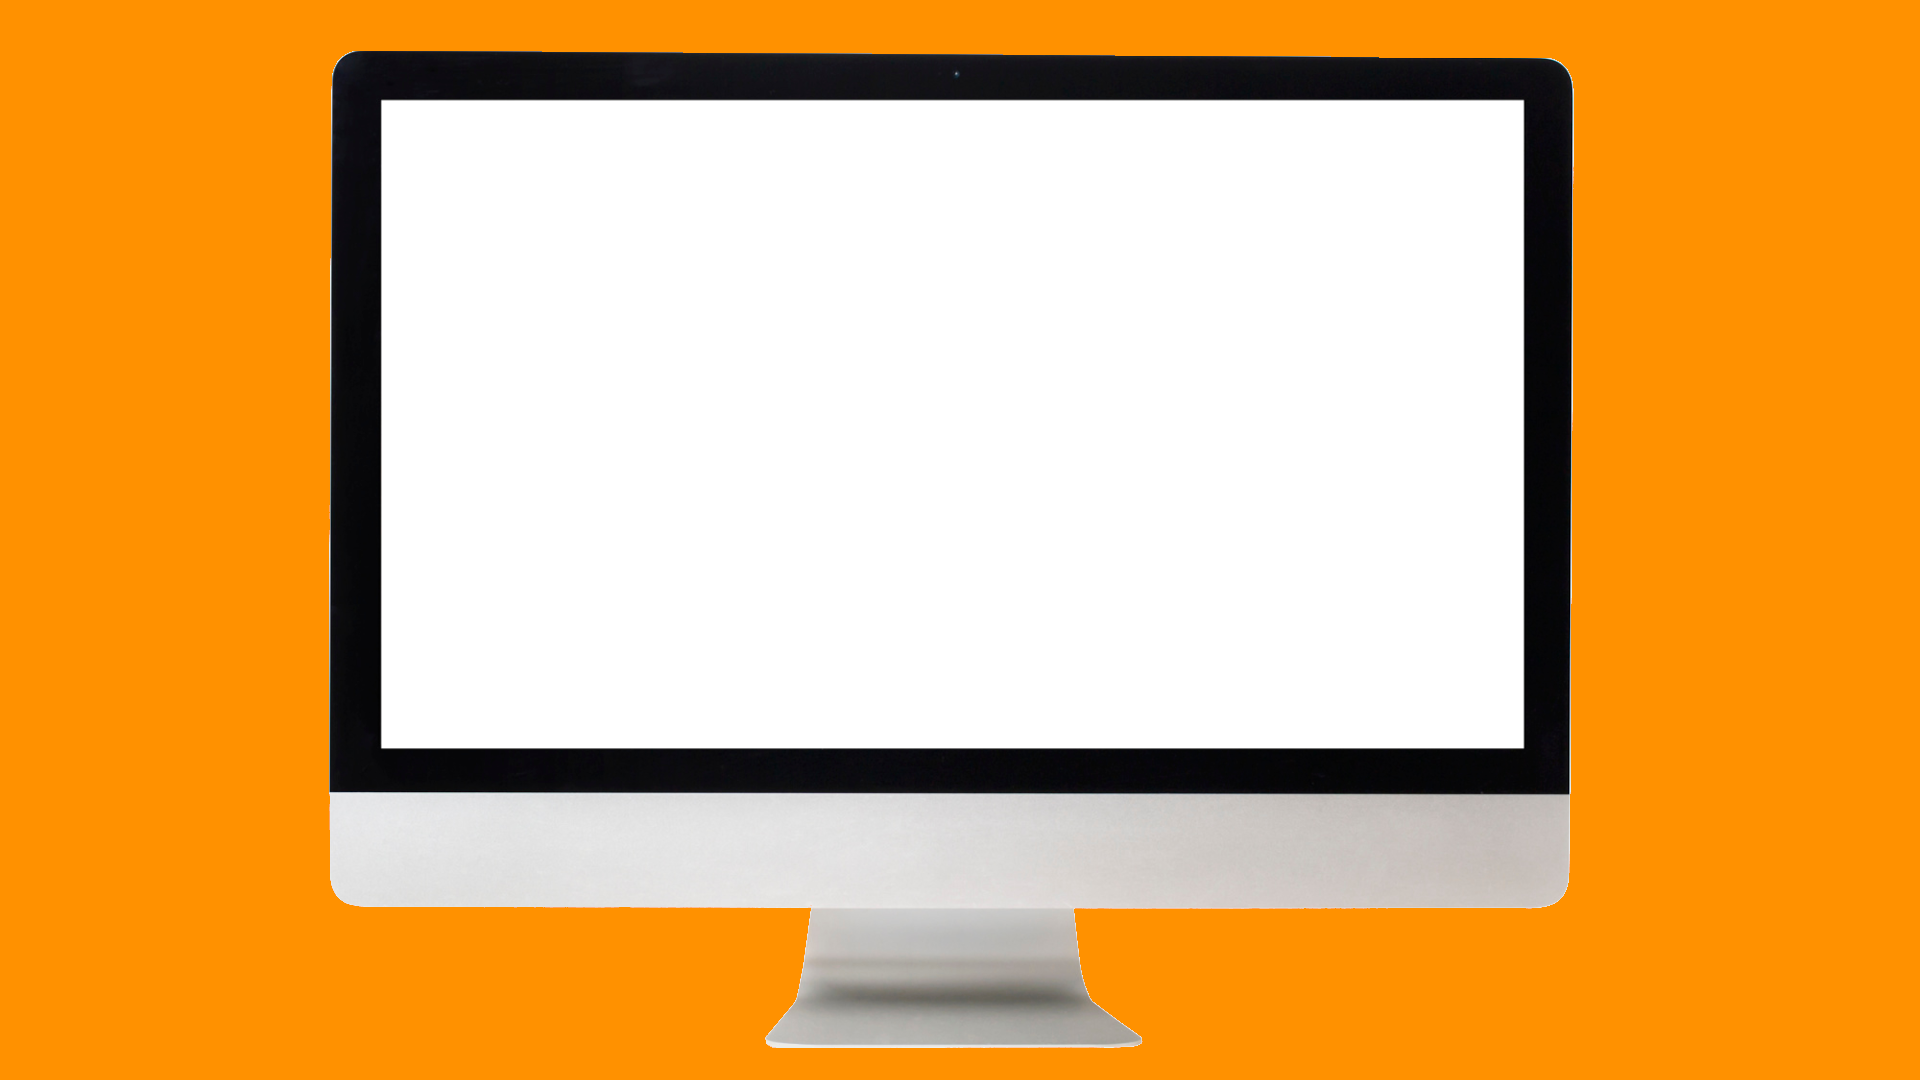
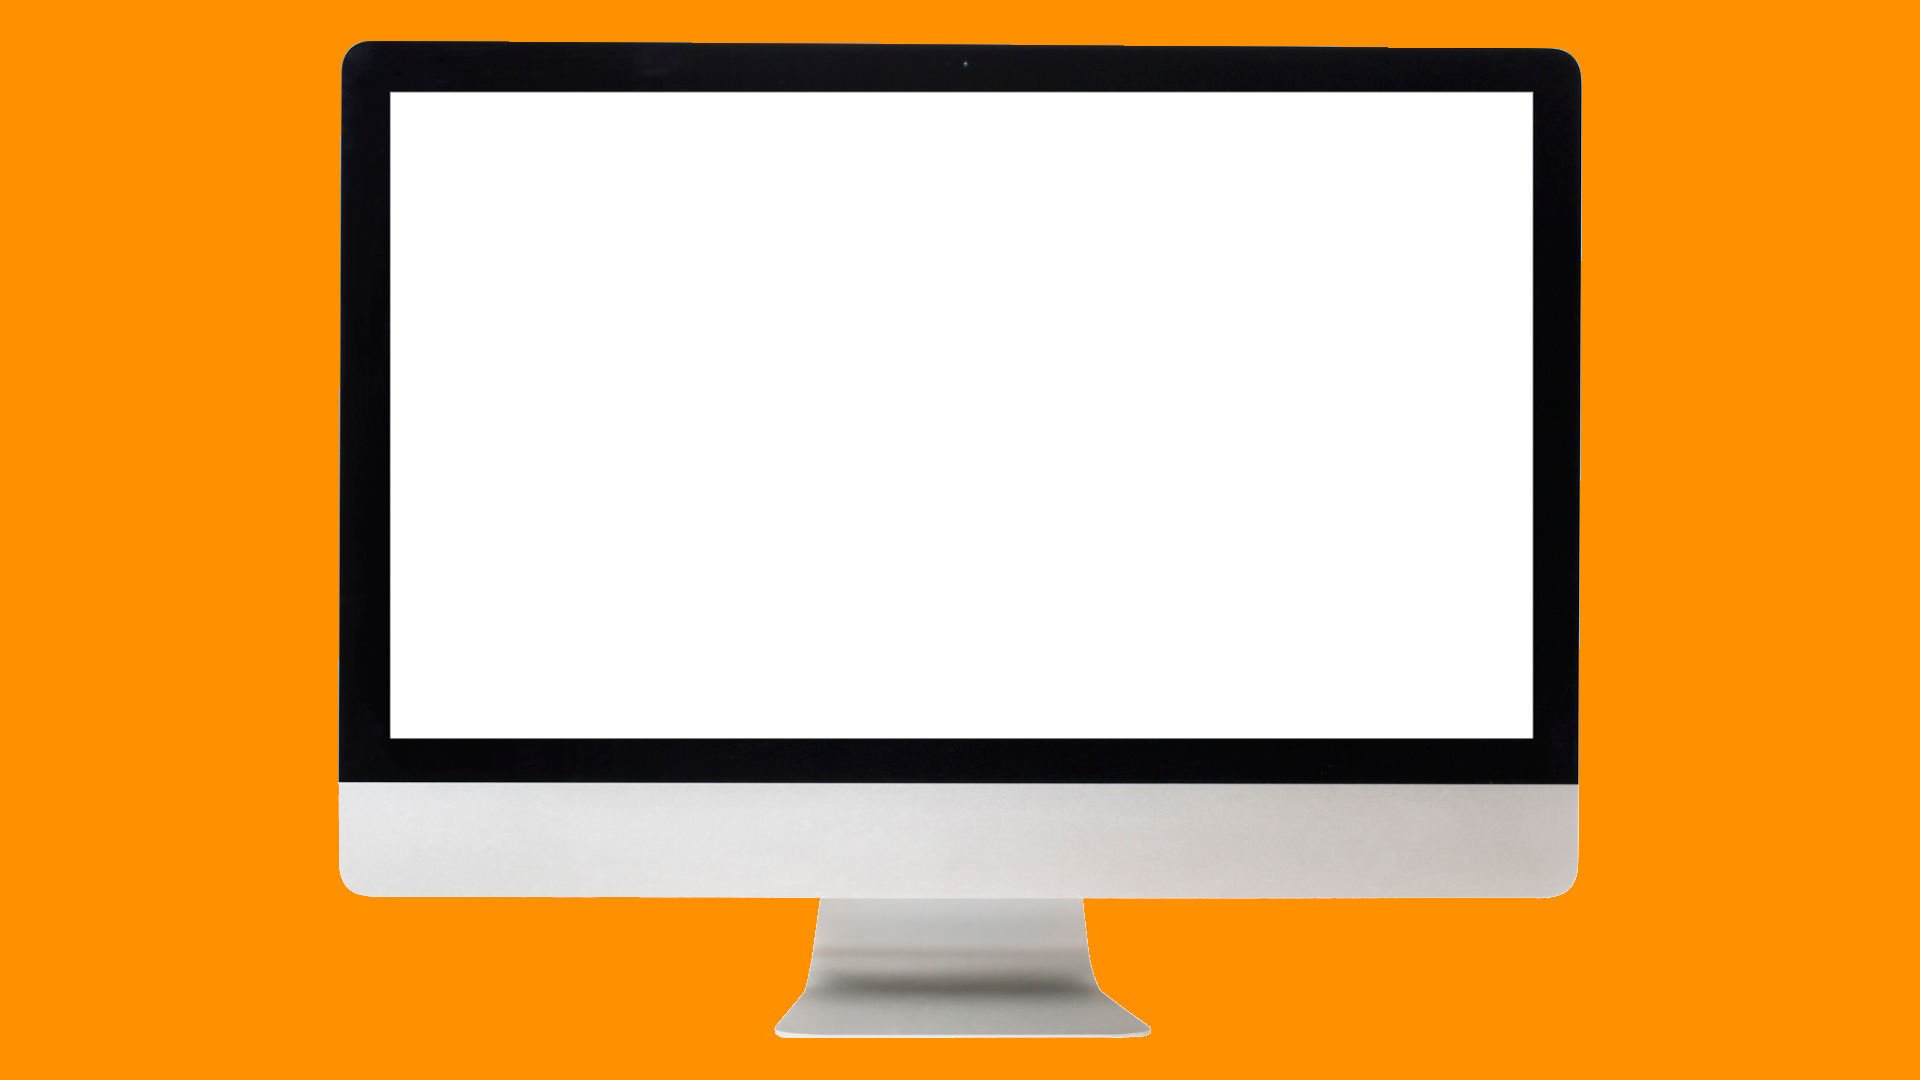
:sparkles: improve zoom in computer transition

Changed region(s): [[0.1562, 0.0306, 0.8438, 0.9778]]

diff --git a/src/scenes/ZoomInComputerScence.tsx b/src/scenes/ZoomInComputerScence.tsx
@@ -7,29 +7,39 @@ import {AbsoluteFill, Easing, Img, interpolate, staticFile, useCurrentFrame, use
 export const ZoomInComputerScene: React.FC = (props) => {
     const {fps} = useVideoConfig();
     const currentFrame = useCurrentFrame();
-    const scale = interpolate(currentFrame, [1.2 * fps, 1.5 * fps], [0.6, 1], {
+    const animationStartFps = 1.2 * fps
+    const animationEndFps = 1.8 * fps
+    const scaleContainer = interpolate(currentFrame, [animationStartFps, animationEndFps], [1, 1.7], {
+        easing: Easing.bezier(.40,1,1,1),
         extrapolateRight: 'clamp',
         extrapolateLeft: 'clamp',
     })
-    const offsetTop = `${interpolate(currentFrame, [1.2 * fps, 1.5 * fps], [-115, 0], {
-        easing: Easing.bezier(.40,1.06,1,1),
+    const scaleContent = interpolate(currentFrame, [animationStartFps, animationEndFps], [0.6, 1], {
+        easing: Easing.bezier(.35,1,1,1),
+        extrapolateRight: 'clamp',
+        extrapolateLeft: 'clamp',
+    })
+    const containerOffsetTop = `${interpolate(currentFrame, [animationStartFps, animationEndFps], [0, 220], {
+        easing: Easing.bezier(.40,1,1,1),
         extrapolateRight: 'clamp',
         extrapolateLeft: 'clamp',
     })}px`
-    const offsetLeft = `${interpolate(currentFrame, [1.2 * fps, 1.5 * fps], [-6, 0], {
-        easing: Easing.bezier(.40,1.06,1,1),
+    const offsetTop = `${interpolate(currentFrame, [animationStartFps, animationEndFps], [-125, 0], {
+        easing: Easing.bezier(.40,1,1,1),
         extrapolateRight: 'clamp',
         extrapolateLeft: 'clamp',
     })}px`
     return (
         <AbsoluteFill>
-            <Img className="w-auto h-auto" src={staticFile('img/computer.png')} />
+            <Img className="w-auto h-auto" src={staticFile('img/computer.png')} style={{
+                marginTop: containerOffsetTop,
+                transform: `scale(${scaleContainer})`,
+            }}/>
              <div
                  className="w-full h-full absolute"
                  style={{
-                     transform: `scale(${scale})`,
+                     transform: `scale(${scaleContent})`,
                      top: offsetTop,
-                     left: offsetLeft
                 }}
              >
                 <WebsiteContainer url='https://flipword.io' multiTab={false}>
